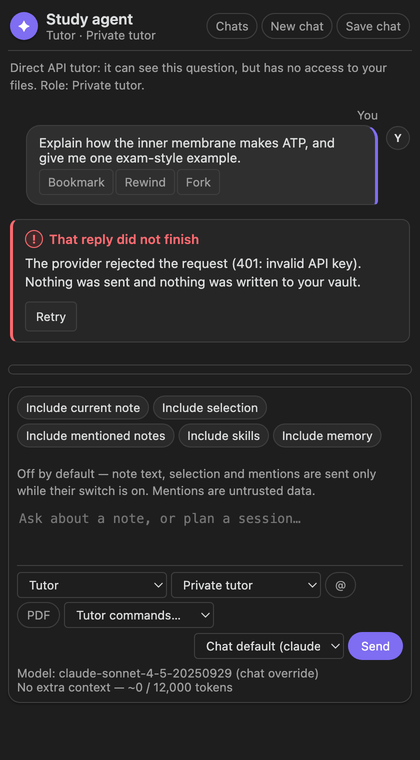
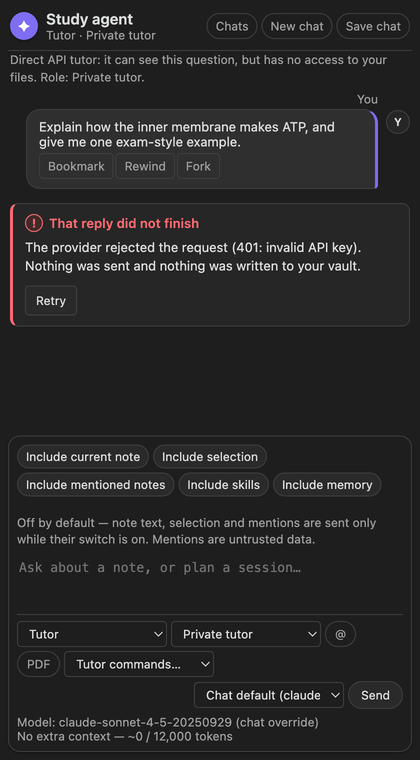
Remove the Study agent scroll track at its source
The closed mention picker kept display:flex over .qt-hidden, leaving an empty 10 px box that drew a scrollbar between the transcript and composer. Hide the picker explicitly, drop the transcript scrollbar suppression, and re-capture the empty, streaming and error states in light and dark.

🤖 Generated with Codebuff

diff --git a/styles.css b/styles.css
@@ -12782,6 +12782,12 @@ body.is-mobile .qt-screen .qt-local-events-tab {
   padding: 4px;
   margin: 4px 0;
 }
+
+/* The picker's own display:flex otherwise wins over .qt-hidden and leaves an
+   empty 10px scroll track between the transcript and the composer. */
+.qt-chat-mention-picker.qt-hidden {
+  display: none;
+}
 .qt-chat-mention-option {
   text-align: left;
 }
@@ -13498,24 +13504,6 @@ body.is-mobile .qt-screen .qt-local-events-tab {
   color: var(--text-on-accent);
   background: var(--interactive-accent);
   border-color: transparent;
-}
-.qt-agent-thread {
-  overflow-x: hidden;
-}
-.qt-agent-thread {
-  scrollbar-width: none;
-}
-.qt-agent-thread::-webkit-scrollbar {
-  width: 0;
-  height: 0;
-}
-.qt-agent-chat .qt-agent-thread {
-  overflow-x: hidden;
-  scrollbar-width: none;
-}
-.qt-agent-chat .qt-agent-thread::-webkit-scrollbar {
-  width: 0;
-  height: 0;
 }
 .qt-agent-status:empty {
   display: none;

diff --git a/plan.md b/plan.md
@@ -1,6 +1,6 @@
 # MCQ Tracker → Ultimate Study Tool: Product & Integration Plan
 
-**Status: v1.287.0 (Nov 7, 2026).** One MIT, dependency-free Obsidian plugin
+**Status: v1.287.1 (Nov 7, 2026).** One MIT, dependency-free Obsidian plugin
 (`mcq-tracker`) covering exam practice, cards and vocabulary, courses and
 calendars, study planning, document ingestion, reference/STEM tools and an
 optional BYOK/OpenCode AI layer.
@@ -67,9 +67,11 @@ file per version, `AGENTS.md` has the current-state summary, and the plan
 decision sheet lives in `docs/plan-decisions.md`. Duplicating that log in this
 file is what made it unreadable; it now points instead.
 
-## Handoff snapshot (updated Nov 7, 2026 at v1.287.0)
+## Handoff snapshot (updated Nov 7, 2026 at v1.287.1)
 
 - **1.287.0:** the Study agent header gains a **Chats** drawer control, the saved-conversation library no longer occupies the transcript, errors render as an alert card with **Retry**, and Settings → AI groups the assistant into Copilot-style cards (Study agent, Commands and skills, Session pacing and checks, Context and privacy, Knowledge record, AI backend, Models and request limits). Light and dark evidence is in `docs/render/study-agent-ui/`.
+
+- **1.287.1:** the closed mention picker no longer leaves a 10 px scroll track above the Study agent composer. Its base `display:flex` was overriding `.qt-hidden`; a specific hidden rule now removes the box, and the earlier transcript `overflow-x`/scrollbar suppression is gone. The 420 px empty, streaming and error states are captured in light and dark, and the settings captures are re-confirmed, in `docs/render/study-agent-ui/`.
 
 - **State:** 0 unchecked core rows; Quick Chat, message bookmarks, per-message rewind and fork, Quick Ask, saved study commands, vault skills, chat projects, opt-in local memory, Markdown conversation export and local cost estimates ship in 1.282.0; the 1.283.0 knowledge record is end-to-end scenario-verified in 1.285.0 and now follows a moved or renamed note; Mother cram and card answer dictation shipped; 3 `[~]` partials (the owner visual, device and screenshot passes remain; no result has been pasted); four former gates decided on Nov 6, 2026 (§B).
 - **Newest feature:** 1.286.1 renders the Study agent pane at 320/420/560 px in light and dark with the real stylesheet and Obsidian's default variables, then fixes what the renders exposed: the header no longer collapses, the pinned composer no longer covers the thread, action rows share one tap height, user bubbles pass contrast, and a rebuild no longer leaves the transcript blank. Evidence and measurements are in `docs/render/study-agent/`. 1.286.0 restyles the Study agent as a chat pane: an identity header with the chat model and conversation actions, avatar turns with bubbles, an empty state with starter prompts, and one rounded composer for context, draft and send. 1.285.0 proves the opt-in **knowledge record** (§5.27) survives a source-note move, rename, delete, recreation at a new path and restore: concept ids, `firstSeen`, aliases, attempt evidence and misconception state stay attached, the Insights card and learner digest keep the note linked, and repeated rebuilds do not duplicate it. 1.284.0 verified extraction, attempt updates, misconception opening/fixing, heading rename identity, deleted-source retention, idempotent rebuild, reload, Insights actions and the bounded Study-agent digest. 1.283.0 added it: concept extraction, coverage, misconceptions and the digest, with its UI in Insights → Concepts. 1.282.0 added **plan-then-act**, **general PDF attachments**, a **Quick Practice home-screen URI** and a **sample-vault math/chemistry audit note**, alongside the Nov 6 additions: **Quick Chat**, **message bookmarks with chat links**, **per-message rewind and fork**, **vault skills**, **local chat projects**, **opt-in local memory**, **per-conversation Markdown export**, **local cost estimates** (per send and per conversation), a **compact context ring**, a **local diagnostics bundle**, **Quick Ask**, **saved study commands**, **`@` note/folder mentions**, a **context/token footer** and a **searchable, pinned, archived conversation library** in one release. In 1.281.0, **Mother cram** is the practice-only Cards loop

diff --git a/docs/render/study-agent-ui/README.md b/docs/render/study-agent-ui/README.md
@@ -1,16 +1,26 @@
-# Study agent UI evidence (1.287.0)
+# Study agent UI evidence (1.287.1)
 
-- `chat-{light,dark}.png` — the error state at 420 px, captured from the real
-  `ChatPanel` markup (`build()` + `draw()`) serialized from the test DOM,
-  wrapped in `.qt-agent-chat`, with the plugin's real `styles.css` and
-  Obsidian's default light/dark variables.
+- `chat-{light,dark}.png` — the provider-error state at 420 px.
+- `chat-empty-{light,dark}.png` — the first-run empty state.
+- `chat-busy-{light,dark}.png` — a streaming reply with **Stop** showing.
 - `settings-{light,dark}.png` — the grouped Settings → AI cards at 760 px.
   Obsidian's `Setting` renderer is not available outside the app, so these are
   a structural fixture using the same `.qt-agent-settings` /
-  `.qt-agent-settings-card` classes and row markup the tab now generates,
-  loaded with the real `styles.css` and theme variables.
-- The empty and busy states from 1.286.1 remain in
+  `.qt-agent-settings-card` classes and row markup the tab generates, loaded
+  with the real `styles.css` and Obsidian theme variables. Re-confirmed after
+  the 1.287.1 fix; unchanged.
+- The 1.286.1 320/420/560 px render matrix remains in
   `docs/render/study-agent/` (28 images, 0 measured issues).
 
-Captured in the Cloud browser at 2× DPR, cropped to the fixture and resized to
-1×. The temporary server and generator were removed after capture.
+The six chat images are serialized from the real `ChatPanel` markup
+(`build()` + `draw()`), wrapped in `.qt-agent-chat`, with the plugin's real
+`styles.css` and Obsidian's default variables. Captured in the Cloud browser at
+2× DPR, cropped to the 420×760 fixture and resized to 1×. The temporary server
+and generator are removed after capture.
+
+1.287.1 fixes the track those captures exposed: the closed mention picker had a
+base `display:flex` that won over `.qt-hidden`, so an empty 10 px box with its
+own scrollbar stayed above the composer. The transcript itself had no horizontal
+overflow (`scrollWidth === clientWidth` at 420 px); the earlier
+`overflow-x:hidden` / `scrollbar-width:none` suppression was removed rather
+than kept as a cover.

diff --git a/AGENTS.md b/AGENTS.md
@@ -1,5 +1,7 @@
 # AGENTS.md — MCQ Tracker
 
+**1.287.1 release (Nov 7, 2026):** the Study agent capture exposed a 10 px scroll track above the composer. The closed mention picker kept `display:flex` over `.qt-hidden`, so it stayed in flow and drew its own scrollbar. A specific `.qt-chat-mention-picker.qt-hidden` rule now removes it, and the earlier transcript `overflow-x:hidden` / `scrollbar-width:none` suppression is removed. Empty, streaming and error states are re-captured at 420 px in light and dark beside the re-confirmed settings pair in `docs/render/study-agent-ui/`.
+
 **1.287.0 release (Nov 7, 2026):** the Study agent UI is finished as a Copilot-grade pane: a **Chats** header control opens the saved-conversation drawer instead of leaving it in the transcript, provider failures render as an alert card with **Retry**, and Settings → AI is grouped into seven cards. The error and settings surfaces are captured in light and dark in `docs/render/study-agent-ui/`; chat evidence is real `ChatPanel` markup, settings evidence is a structural fixture because Obsidian's `Setting` renderer is unavailable outside the app. Focused chat tests pass; full gate is rerun for the release.
 
 Read `plan.md` first: **Handoff snapshot**, **Current focus**, then **§A** (what ships, with the `src/` that implements it), **§B** (the three owner-run passes still open) and **§C** (what was decided against). The plan is the product source of truth. Its per-release history lives in `docs/release-notes/`, not in the plan, and the owner gate sheet is `docs/plan-decisions.md`.

diff --git a/docs/release-notes/1.287.1.md b/docs/release-notes/1.287.1.md
@@ -1,0 +1,27 @@
+# 1.287.1 — remove the Study agent scroll track
+
+The 420 px chat captures exposed a 10 px horizontal scrollbar track between the
+transcript and the composer.
+
+## Cause
+
+It was not transcript overflow. The closed mention picker kept its base
+`display:flex` after `.qt-hidden`, so it remained a 10 px box in the panel flow
+and drew its own scrollbar. The transcript measured `scrollWidth === clientWidth`
+at 420 px.
+
+## Fix
+
+- `.qt-chat-mention-picker.qt-hidden` now sets `display:none`, so the closed
+  picker leaves no box and no track; the open picker is unchanged.
+- Removed the earlier transcript `overflow-x:hidden`, `scrollbar-width:none`
+  and `::-webkit-scrollbar` suppression. The thread no longer needs a
+  scrollbar-suppression rule, and wheel/touch scrolling is unchanged.
+- Re-captured the empty, streaming and error states in light and dark at 420 px.
+  The settings captures are re-confirmed and clean.
+
+## Unchanged
+
+Streaming and Stop, copy/regenerate and message actions, model selection,
+note/flashcard/test drafts with review-before-write, focus visibility, ARIA
+labels, tab order, reduced motion, and the Obsidian-variable-only palette.
